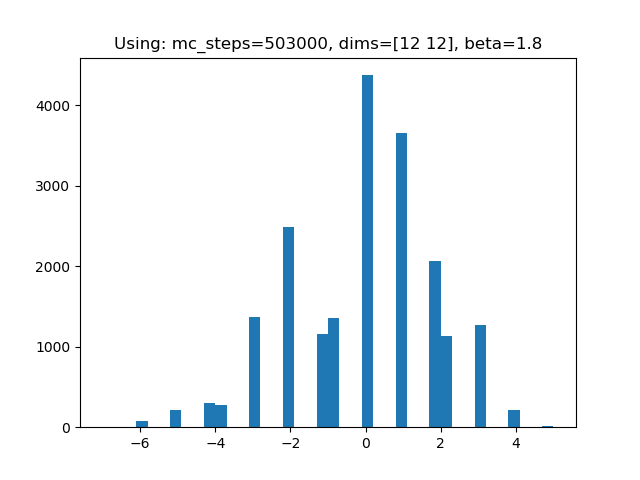
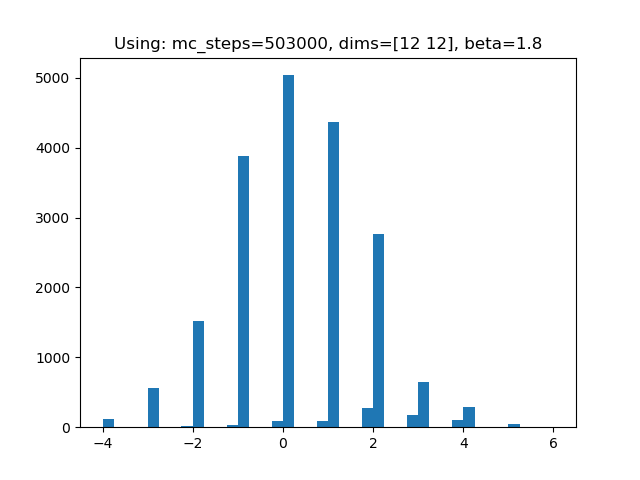
Test with a different Gauge scenario

diff --git a/exc_7/main.py b/exc_7/main.py
@@ -22,7 +22,7 @@ for i in range(len(dims_to_sim)):
     sim_params['spacetime_dim'] = 2
     # T,X,Y,...
     sim_params['latt_size_per_dim'] = dims_to_sim[i]
-    sim_params['rnd_seed'] = 3827 + i*62
+    #sim_params['rnd_seed'] = 3827 + i*62
 
     #sim = Simulation(sim_params)
     #sims.append(sim)
